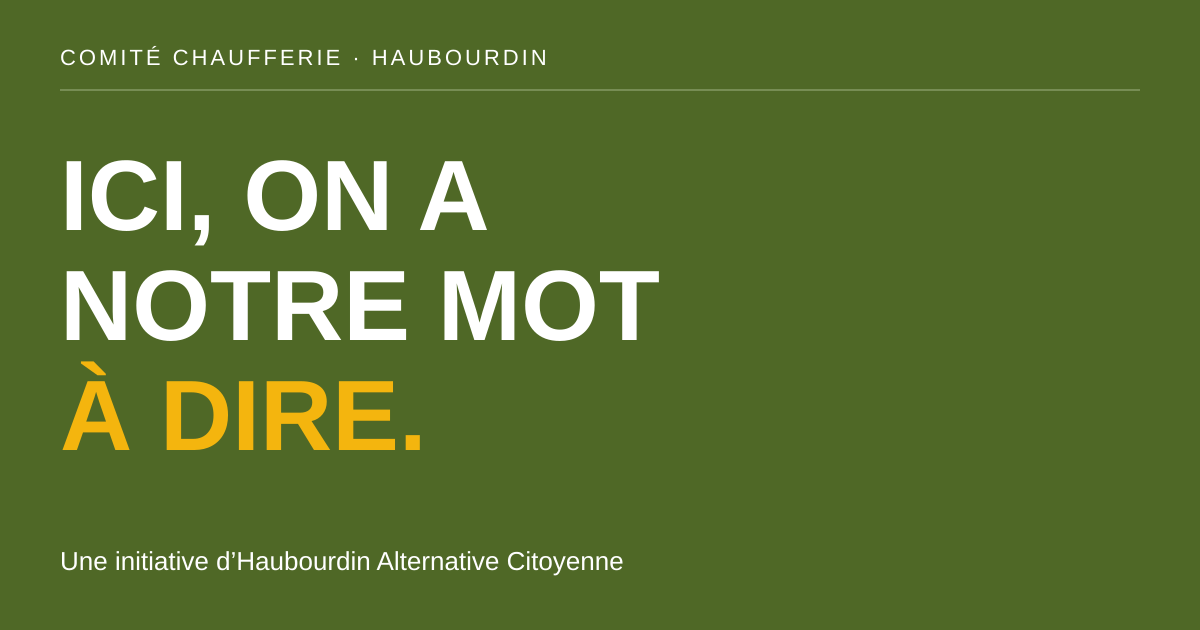
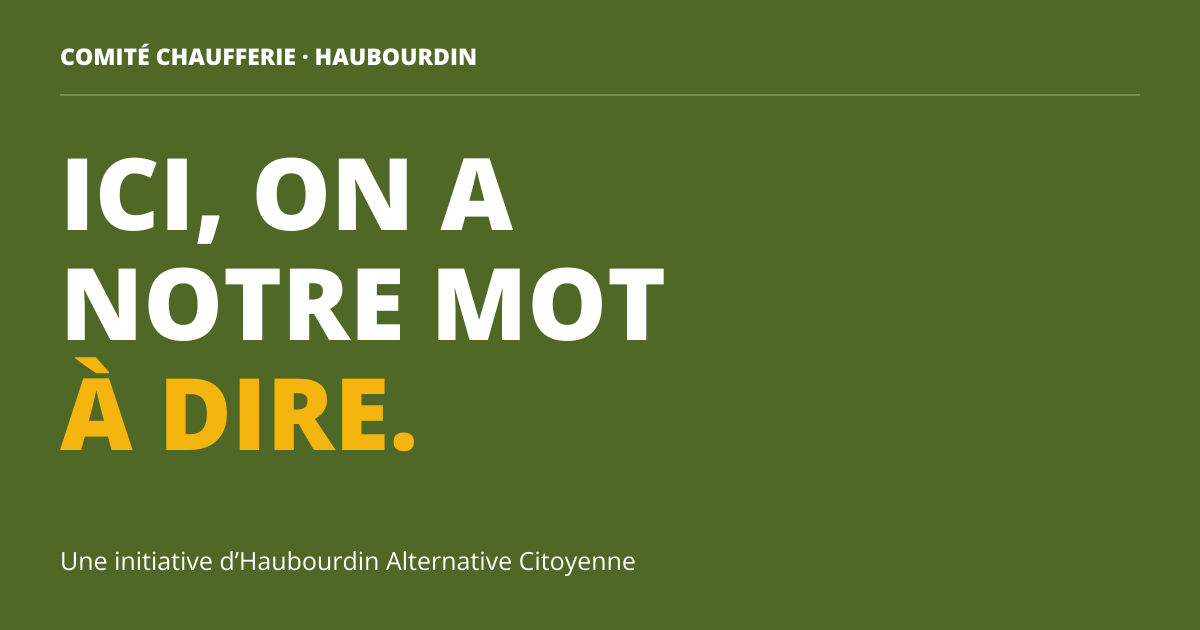
Make sharing artwork reproducible and verify no-JavaScript guidance

diff --git a/tests/e2e/golden-journeys.spec.ts b/tests/e2e/golden-journeys.spec.ts
@@ -272,6 +272,7 @@ test.describe('Lecture essentielle sans JavaScript', () => {
     await page.goto('/informer');
     await expect(page.getByTestId('overview-point')).toHaveCount(10);
     await page.goto('/informer/faq');
+    await expect(page.getByText('La recherche nécessite JavaScript. Toutes les questions restent consultables ci-dessous.', { exact: true })).toBeVisible();
     await expect(page.locator('main details')).toHaveCount(34);
     await page.locator('main details').first().locator('summary').click();
     await expect(page.locator('main details').first()).toHaveAttribute('open', '');
